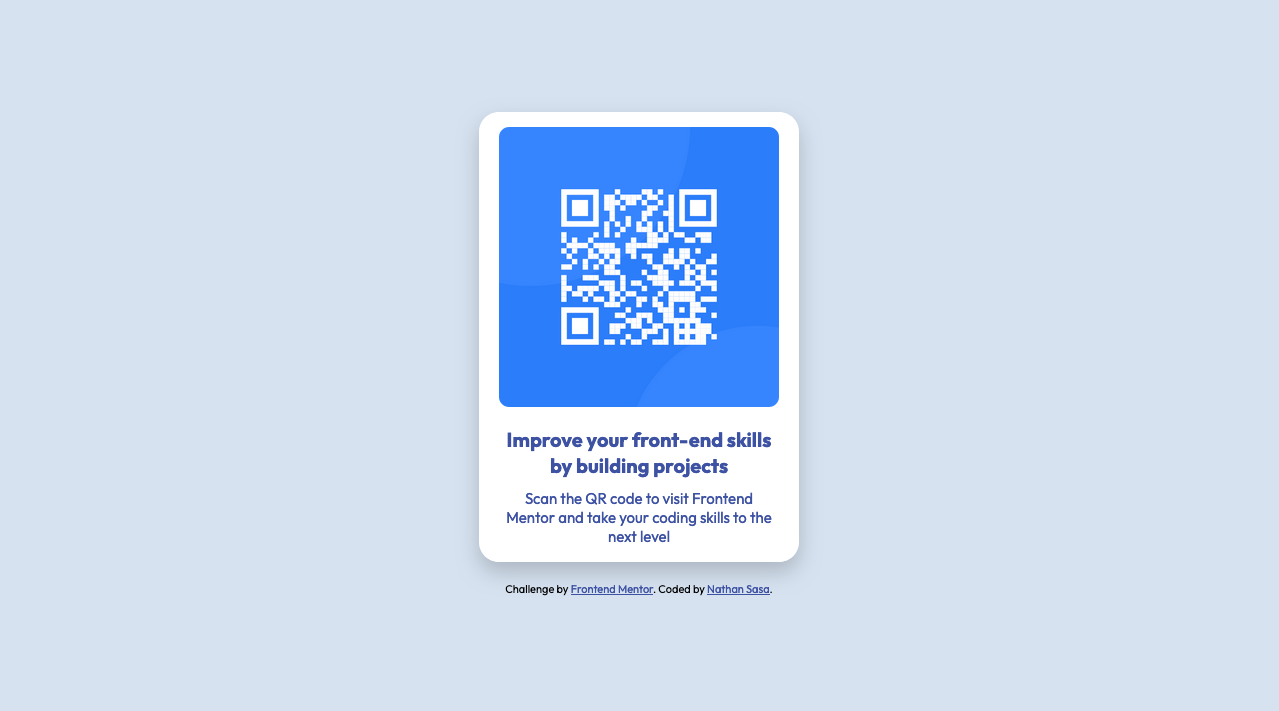
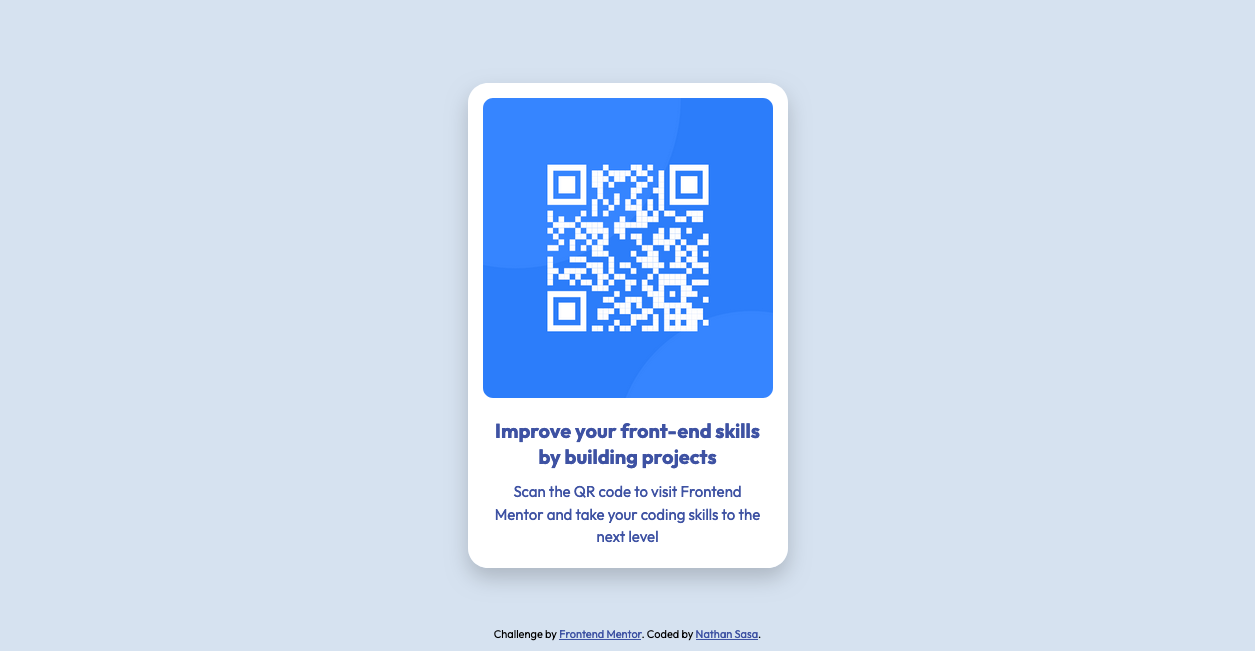
new screenshot, reformat tag

Changed region(s): [[0.3729, 0.1229, 0.6526, 0.8909], [0.404, 0.9524, 0.6215, 0.9831]]

diff --git a/index.html b/index.html
@@ -44,12 +44,11 @@
             align-items: center;
             justify-content: center;
             padding: 20px;
-            /* margin: auto; */
-            /* margin-top: 20px; */
+            padding-top: 15px;
         }
         .card-qr-code img {
-            width: 280px;
-            height: 320px;
+            width: 290px;
+            height: 300px;
             border-radius: 10px;
         }
         .card-qr-code h1{
@@ -62,11 +61,13 @@
             font-size: 15px;
             color: hsl(228, 45%, 44%);
             text-align: center;
-            /* line-height: 1.5; */
+            line-height: 1.5;
         }
       .attribution {
         font-size: 11px;
         text-align: center;
+        position: absolute;
+        bottom: 10px;
       }
       .attribution a {
         color: hsl(228, 45%, 44%);
@@ -74,20 +75,22 @@
     </style>
   </head>
   <body>
-    <div class="card-qr-code">
-        <img
-            src="./images/image-qr-code.png"
-            alt="QR code for frontend mentor"
-        />
-        <h1>
-            Improve your front-end skills by building projects
-        </h1>
-        <p>
-            Scan the QR code to visit Frontend Mentor and take your coding skills to
-            the next level
-        </p>
+    <main>
+      <div class="card-qr-code">
+          <img
+              src="./images/image-qr-code.png"
+              alt="QR code for frontend mentor"
+          />
+          <h1>
+              Improve your front-end skills by building projects
+          </h1>
+          <p>
+              Scan the QR code to visit Frontend Mentor and take your coding skills to
+              the next level
+          </p>
 
-    </div>
+      </div>
+    </main>
     <footer class="attribution">
       Challenge by
       <a href="https://www.frontendmentor.io?ref=challenge" target="_blank"
